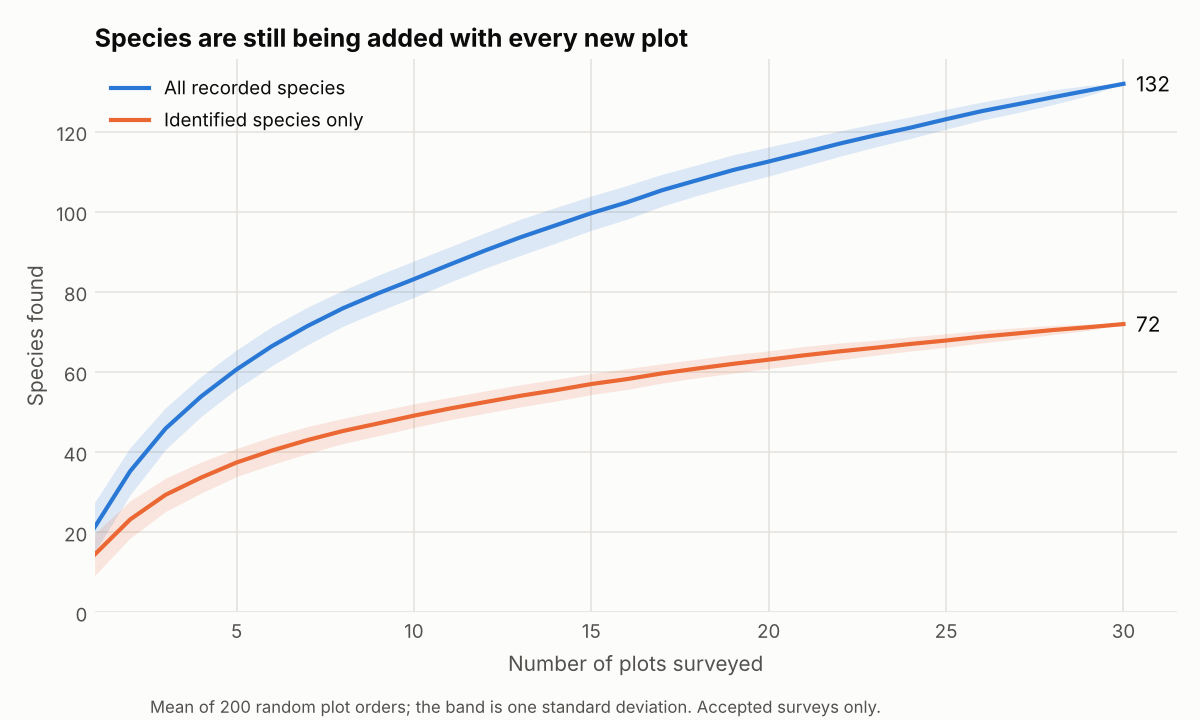
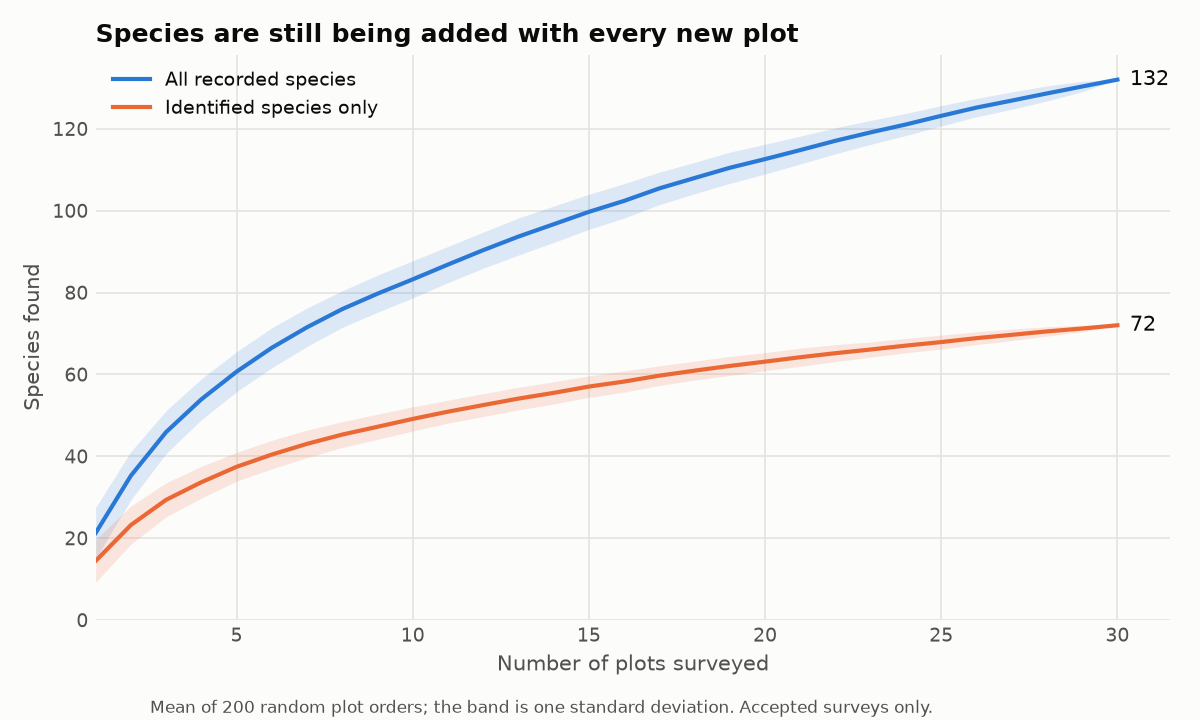
vegetation load data

diff --git a/src/vegetation_src/load_data.py b/src/vegetation_src/load_data.py
@@ -128,7 +128,7 @@ class Loader:
         frame = tables["centroids"][["choice_name", "sample_status", "stratum_label", "geohash", "geometry"]]
         frame = frame.rename(columns={"choice_name": "plot_name", "stratum_label": "stratum"})
 
-        # geometry is a text of the form "latitude longitude altitude accuracy"
+        # geometry is a text of the form "latitude longitude latitude accuracy"
         coordinates = frame["geometry"].str.split(expand=True).astype(float)
         frame = frame.assign(lat=coordinates[0], lon=coordinates[1]).drop(columns="geometry")
 
@@ -157,6 +157,7 @@ class Loader:
         # Direction of the transect: 0 is north-south, 90 is east-west
         east, north = Loader.to_local_metres(plots["b_lat"], plots["b_lon"], plots["a_lat"], plots["a_lon"])
         plots["bearing_deg"] = np.degrees(np.arctan2(east, north)) % 180
+
 
         return plots
 
